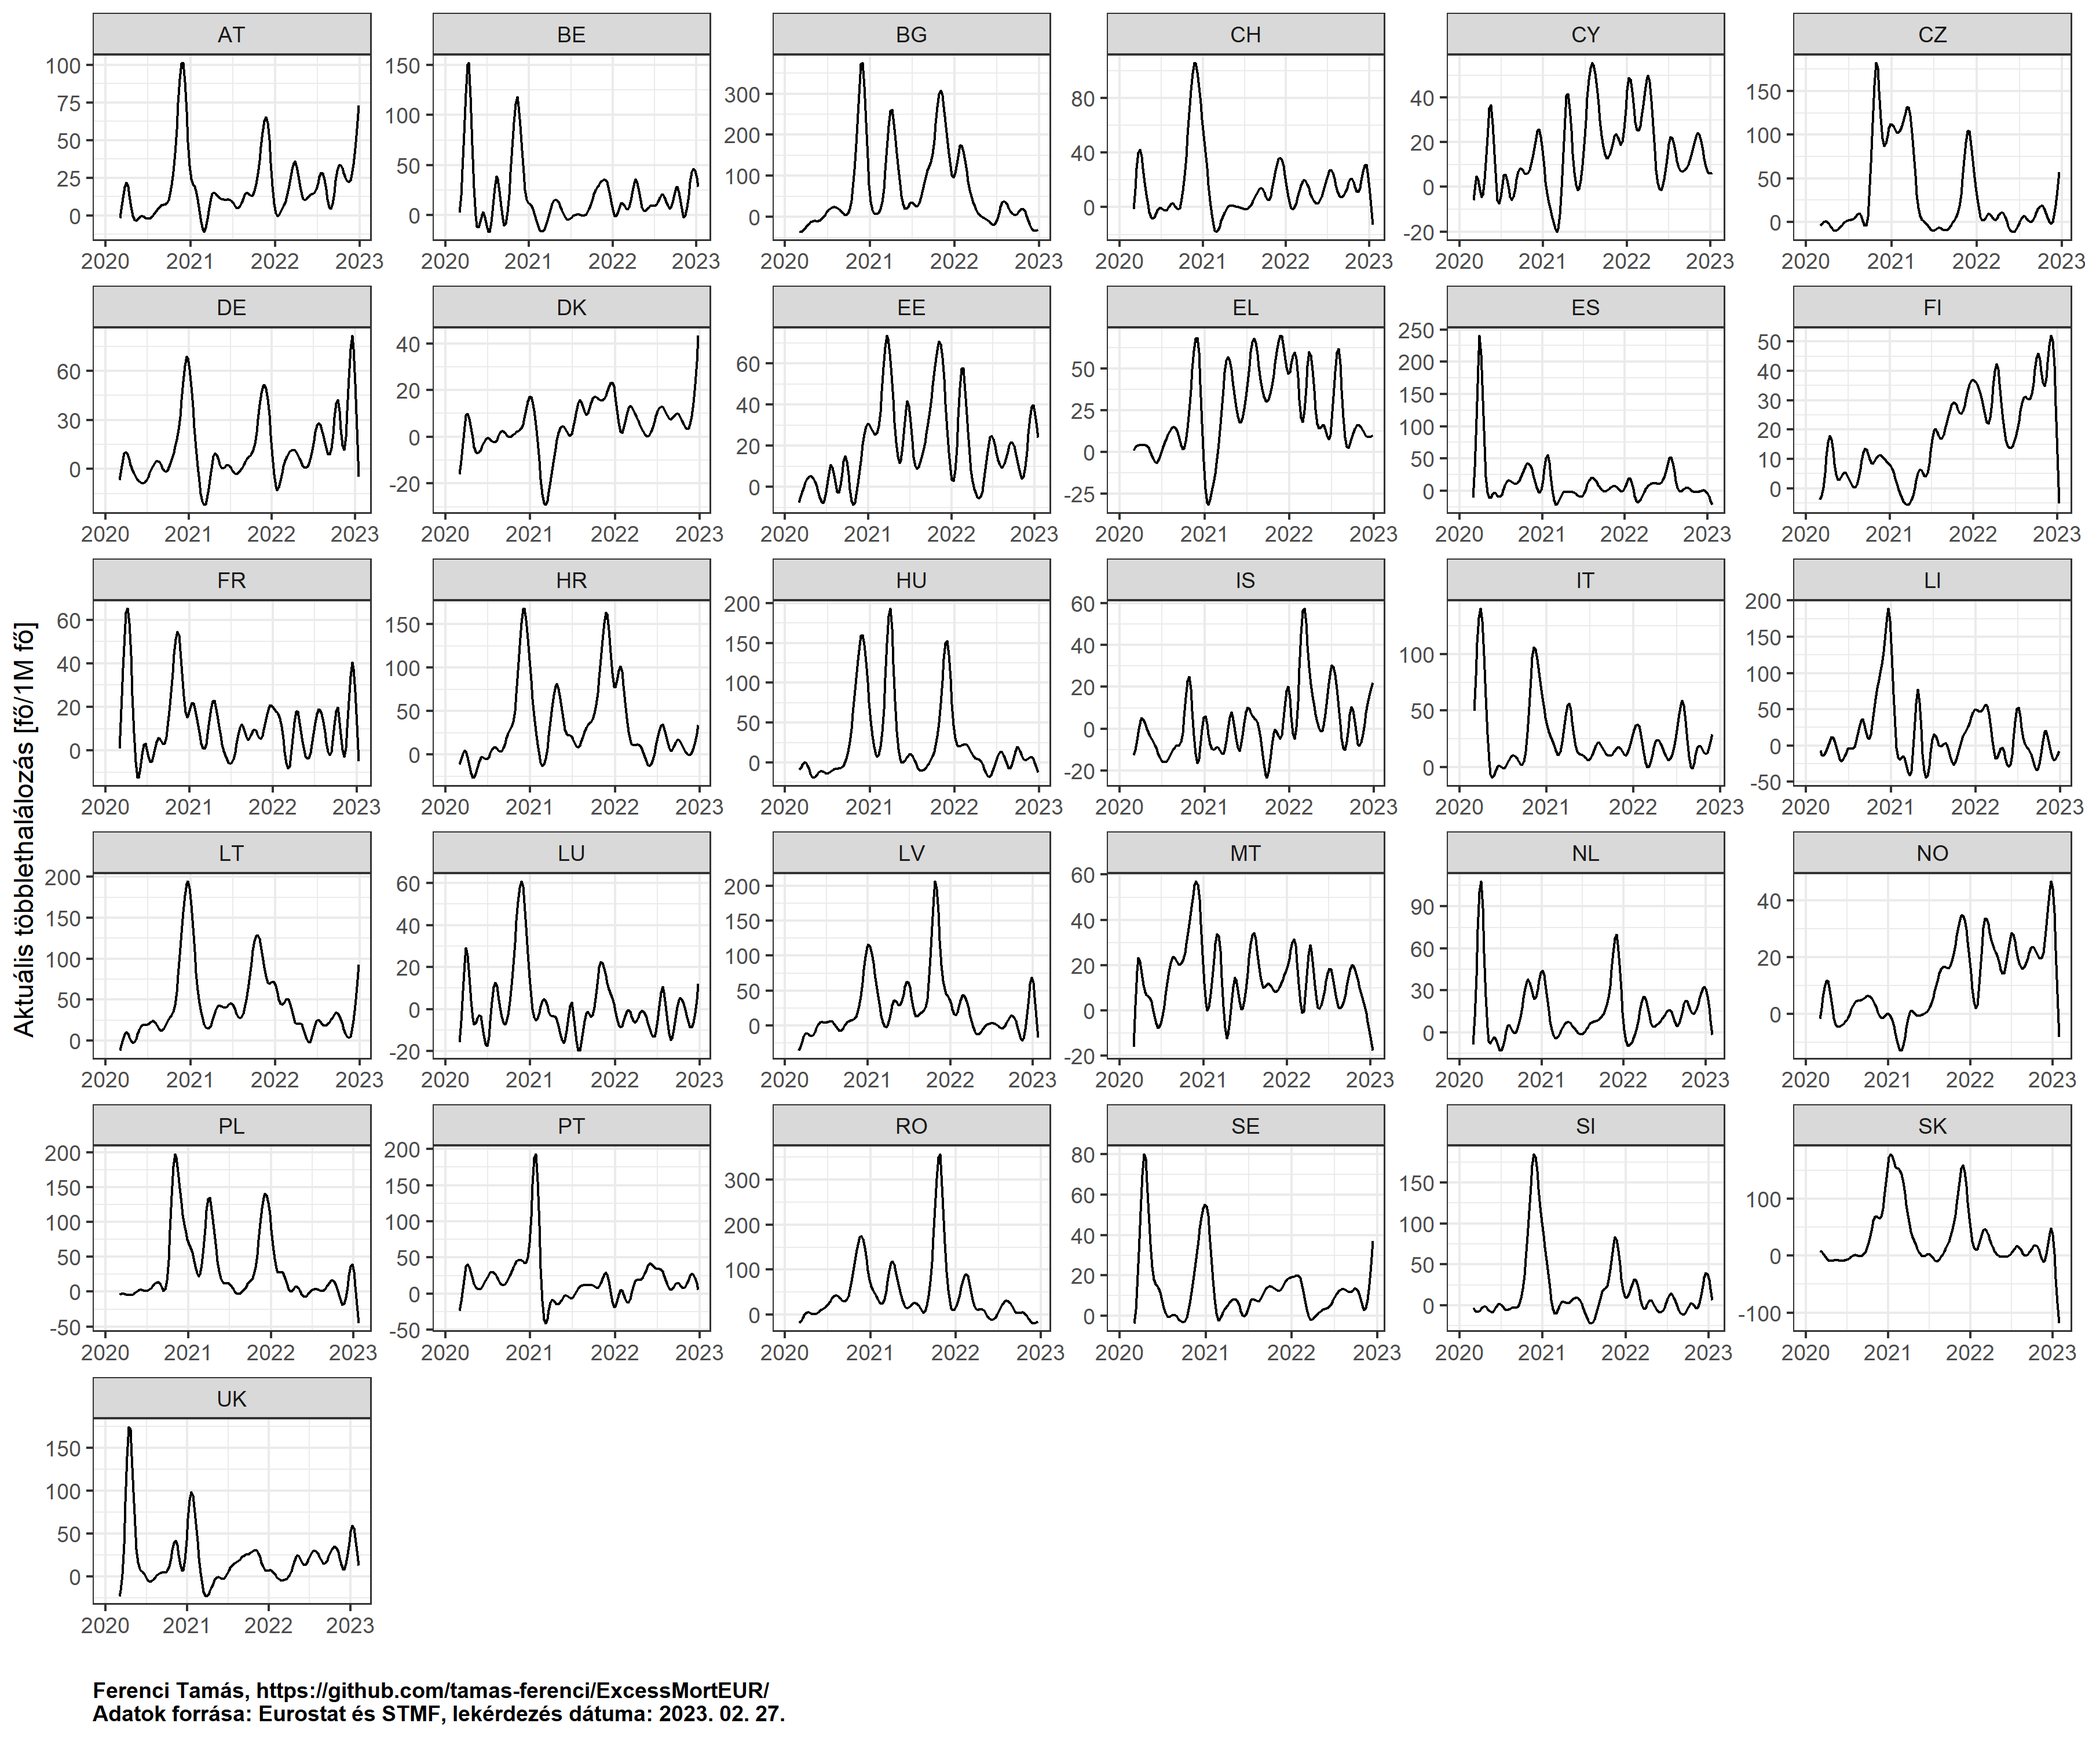
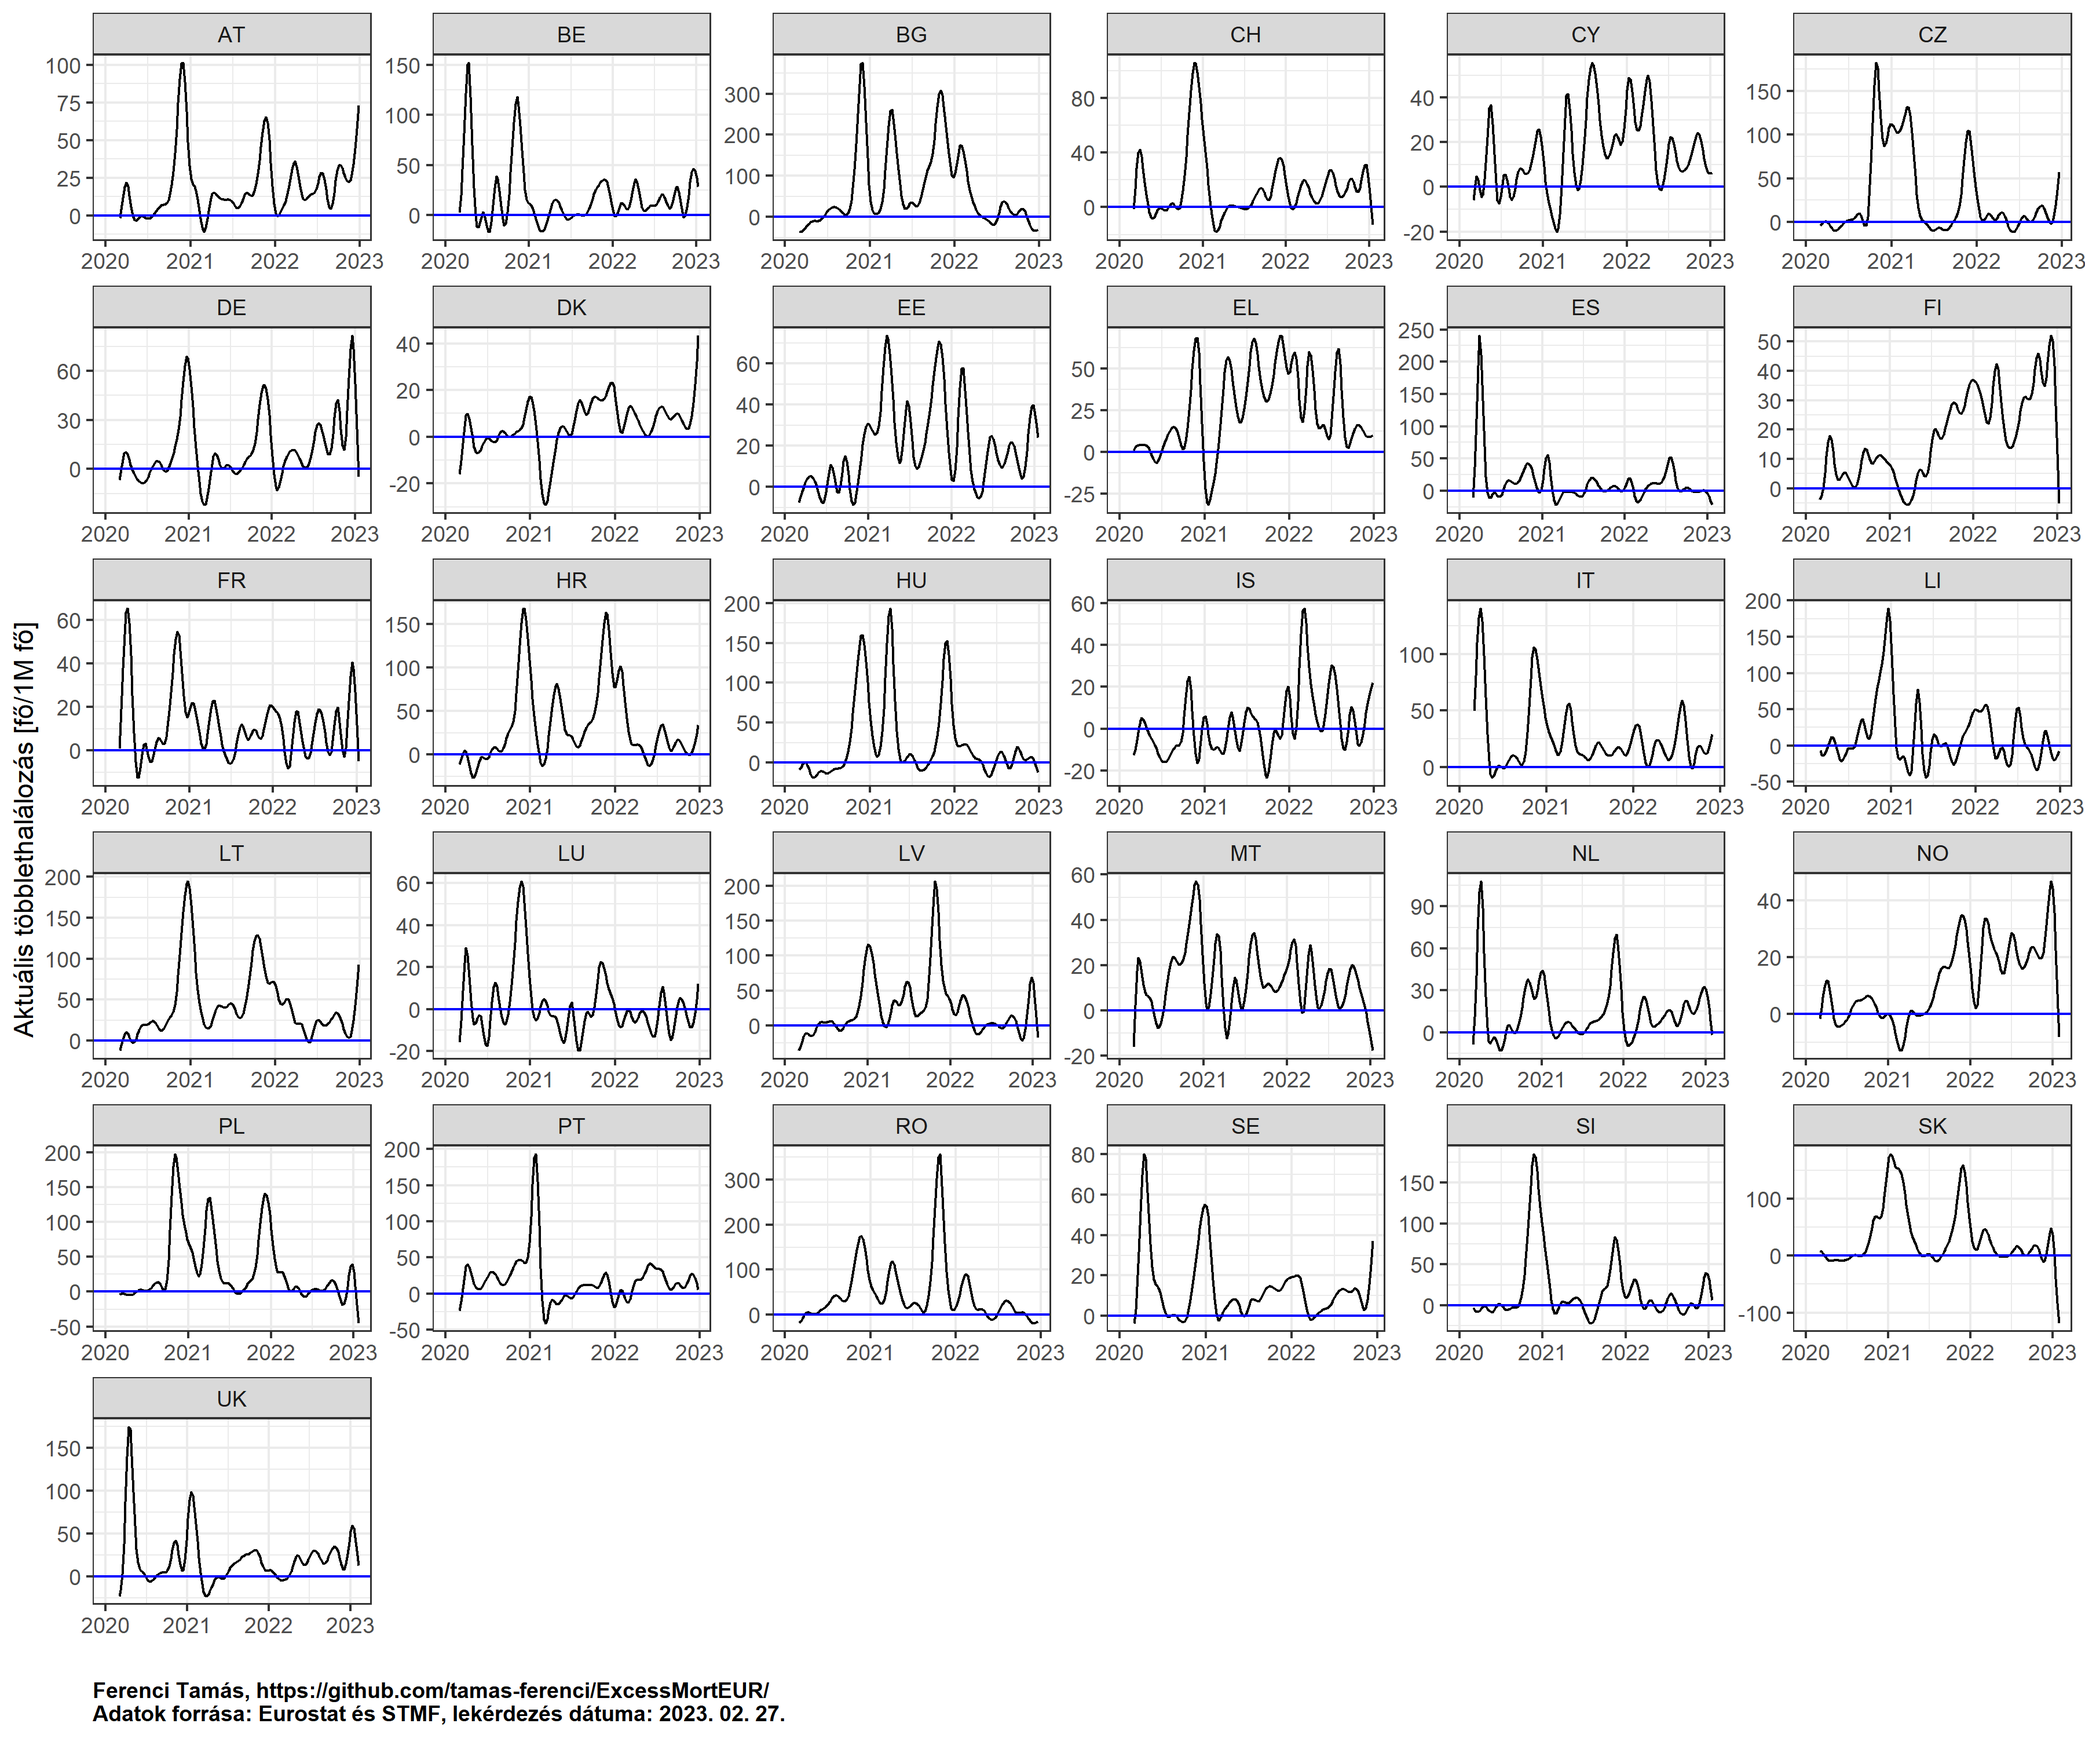
Ábra javítások.

diff --git a/README.md b/README.md
@@ -1399,7 +1399,7 @@ relatív mutatóként:
 ``` r
 ggplot(res[nuts_level==0&age=="TOTAL"], aes(x = date, y = excess/population*1e6, group = geo, label = geo)) +
   geom_line(aes(color = geo=="HU", group = forcats::fct_reorder(geo, geo=="HU", .fun = first))) +
-  geom_abline(slope = 0, intercept = 0, colour = "blue") +
+  geom_hline(yintercept = 0, colour = "blue") +
   scale_color_manual(values = c("FALSE" = "gray", "TRUE" = "red")) + guides(color = "none") +
   labs(x = "", y = "Aktuális többlethalálozás [fő/1M fő]",
        caption = paste0(captionlab, format(Sys.Date(), "%Y. %m. %d."))) +
@@ -1419,7 +1419,7 @@ ggplot(res[age=="TOTAL"&nuts_level==0], aes(x = date, y = increase, group = geo,
   scale_color_manual(values=c("FALSE" = "gray", "TRUE" = "red")) + guides(color = "none") +
   labs(x = "", y = "Aktuális többlethalálozás [%]",
        caption = paste0(captionlab, format(Sys.Date(), "%Y. %m. %d."))) +
-  geom_abline(slope = 0, intercept = 0, colour = "blue") +
+  geom_hline(yintercept = 0, colour = "blue") +
   scale_x_date(date_breaks = "months", labels = scales::label_date_short()) +
   directlabels::geom_dl(method = list("last.points", cex = 0.6)) +
   theme(plot.caption = element_text(face = "bold", hjust = 0), legend.position = "bottom",
@@ -1464,7 +1464,7 @@ népességszámra vetített ábra:
 ``` r
 ggplot(res[nuts_level==0&age=="TOTAL"], aes(x = date, y = cumexcess/meanpopulation*1e6, group = geo, label = geo)) +
   geom_line(aes(color = geo=="HU", group = forcats::fct_reorder(geo, geo=="HU", .fun = first))) +
-  geom_abline(slope = 0, intercept = 0, colour = "blue") +
+  geom_hline(yintercept = 0, colour = "blue") +
   scale_color_manual(values=c("FALSE" = "gray", "TRUE" = "red")) + guides(color = "none") +
   labs(x = "", y = "Összesített többlethalálozás [fő/1M fő]",
        caption = paste0(captionlab, format(Sys.Date(), "%Y. %m. %d."))) +
@@ -1484,7 +1484,7 @@ többletet és a várt értéket, majd ezeket osztjuk el egymással:
 ``` r
 ggplot(res[age=="TOTAL"&nuts_level==0], aes(x = date, y = cumexcess/cumexpected, group = geo, label = geo)) +
   geom_line(aes(color = geo=="HU", group = forcats::fct_reorder(geo, geo=="HU", .fun = first))) +
-  geom_abline(slope = 0, intercept = 0, colour = "blue") +
+  geom_hline(yintercept = 0, colour = "blue") +
   scale_color_manual(values = c("FALSE" = "gray", "TRUE" = "red")) + guides(color = "none") +
   labs(x = "", y = "Összesített többlethalálozás [%]",
        caption = paste0(captionlab, format(Sys.Date(), "%Y. %m. %d."))) +
